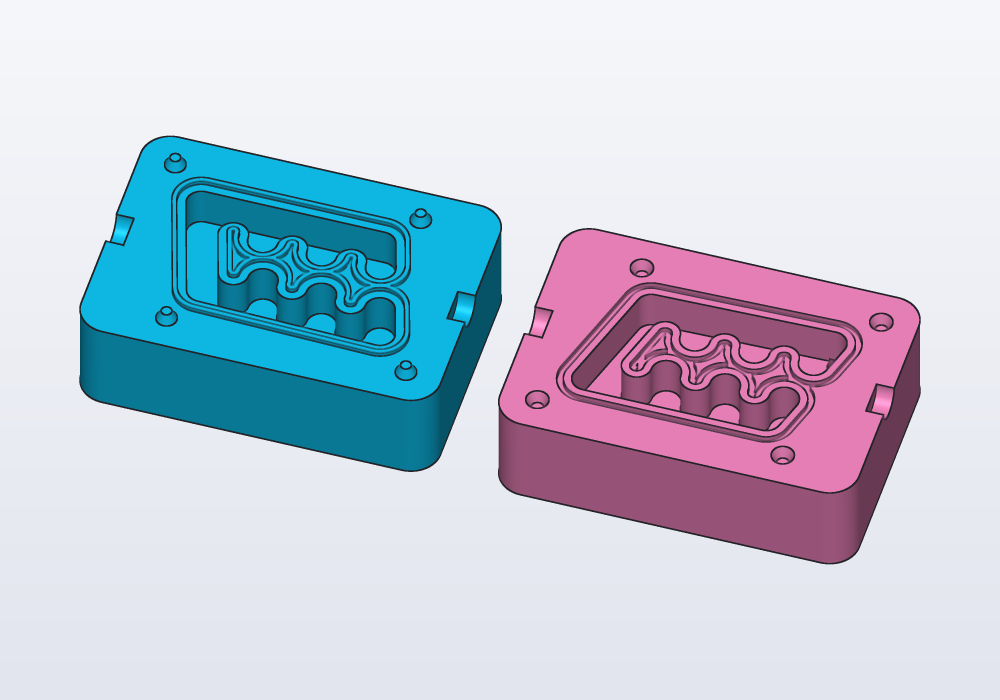
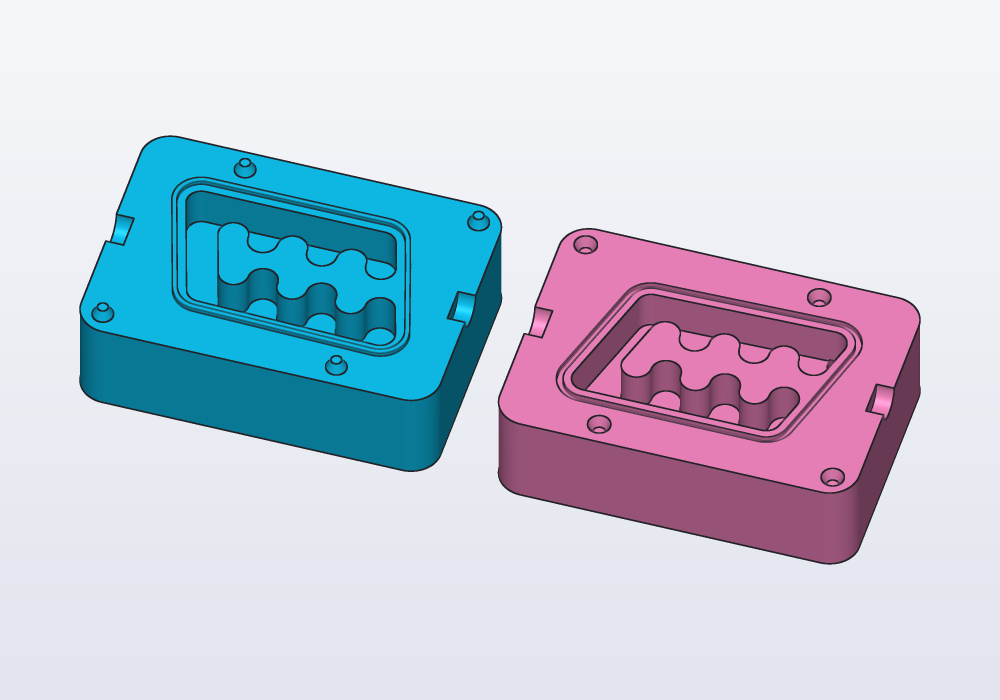
Molds square to a slanted parting plane, sized by the part's own reach along its axes; the seal runs round the cavity's convex hull, the keys outside it

diff --git a/docs/cheatsheet.html b/docs/cheatsheet.html
@@ -459,7 +459,7 @@ dd { margin: 0 0 0 12px; color: #4a5a54; }
 </dl></section>
 <section><h2>import molds;</h2><dl>
 <dt>struct Mold(a: Solid, b: Solid, aPrint: Solid, bPrint: Solid)</dt><dd>The two halves of a mold, where they go and laid for printing.</dd>
-<dt>mold(object: Solid, at: Plane, wall: Length = …, keys: int = 4, sprue: Length = …, vents: int = 2, seal: Length = …, clearance: Length = …, pry: bool = true) → Mold</dt><dd>A two-part mold to cast `object` in (silicone, resin, plaster): a block `wall` thick round it, cut along the parting plane `at`, the object's shape hollow inside. The plane should cross the object where it is widest, so each half lets go of the cast.  - `keys` cones on a's parting face and their sockets in b's line the halves up (where the face has room, as far apart as they can be), `clearance` apart; - a seal round the cavity, a ridge `seal` high on a and its groove in b, keeps the liquid from creeping out between the halves (0.mm: none); - a pour hole `sprue` wide with a funnel, and `vents` thin channels for the air, go up through b from the cavity's highest points (along the plane's normal: put that side up when pouring).  - `pry`: a notch on two opposite sides, across the parting line, to open the mold with a flat screwdriver without marring its faces.  Both halves print with the parting face up, on their outer faces (`aPrint`, `bPrint`): the keys and the seal stand up, the sockets and the groove open upwards, with no supports.</dd>
+<dt>mold(object: Solid, at: Plane, wall: Length = …, keys: int = 4, sprue: Length = …, vents: int = 2, seal: Length = …, clearance: Length = …, pry: bool = true) → Mold</dt><dd>A two-part mold to cast `object` in (silicone, resin, plaster): a block `wall` thick round it, cut along the parting plane `at`, the object's shape hollow inside. The plane should cross the object where it is widest, so each half lets go of the cast.  - `keys` cones on a's parting face and their sockets in b's line the halves up (where the face has room, as far apart as they can be), `clearance` apart; - a seal round the cavity (its convex hull), a ridge `seal` high on a and its groove in b, keeps the liquid from creeping out between the halves (0.mm: none); - a pour hole `sprue` wide with a funnel, and `vents` thin channels for the air, go up through b from the cavity's highest points (along the plane's normal: put that side up when pouring).  - `pry`: a notch on two opposite sides, across the parting line, to open the mold with a flat screwdriver without marring its faces.  Both halves print with the parting face up, on their outer faces (`aPrint`, `bPrint`): the keys and the seal stand up, the sockets and the groove open upwards, with no supports.</dd>
 </dl></section>
 <section><h2>Keys and mouse (on macOS, Cmd for Ctrl)</h2><dl>
 <dt>Right drag, or Shift + left drag</dt><dd>turns the view</dd>

diff --git a/docs/CHEATSHEET.md b/docs/CHEATSHEET.md
@@ -454,7 +454,7 @@ s is a Solid, p a Profile, f a Frame; every value is immutable: operations give 
 ## Library: import molds;
 
 - `struct Mold(a: Solid, b: Solid, aPrint: Solid, bPrint: Solid)` — The two halves of a mold, where they go and laid for printing.
-- `mold(object: Solid, at: Plane, wall: Length = …, keys: int = 4, sprue: Length = …, vents: int = 2, seal: Length = …, clearance: Length = …, pry: bool = true) → Mold` — A two-part mold to cast `object` in (silicone, resin, plaster): a block `wall` thick round it, cut along the parting plane `at`, the object's shape hollow inside. The plane should cross the object where it is widest, so each half lets go of the cast.  - `keys` cones on a's parting face and their sockets in b's line the halves up (where the face has room, as far apart as they can be), `clearance` apart; - a seal round the cavity, a ridge `seal` high on a and its groove in b, keeps the liquid from creeping out between the halves (0.mm: none); - a pour hole `sprue` wide with a funnel, and `vents` thin channels for the air, go up through b from the cavity's highest points (along the plane's normal: put that side up when pouring).  - `pry`: a notch on two opposite sides, across the parting line, to open the mold with a flat screwdriver without marring its faces.  Both halves print with the parting face up, on their outer faces (`aPrint`, `bPrint`): the keys and the seal stand up, the sockets and the groove open upwards, with no supports.
+- `mold(object: Solid, at: Plane, wall: Length = …, keys: int = 4, sprue: Length = …, vents: int = 2, seal: Length = …, clearance: Length = …, pry: bool = true) → Mold` — A two-part mold to cast `object` in (silicone, resin, plaster): a block `wall` thick round it, cut along the parting plane `at`, the object's shape hollow inside. The plane should cross the object where it is widest, so each half lets go of the cast.  - `keys` cones on a's parting face and their sockets in b's line the halves up (where the face has room, as far apart as they can be), `clearance` apart; - a seal round the cavity (its convex hull), a ridge `seal` high on a and its groove in b, keeps the liquid from creeping out between the halves (0.mm: none); - a pour hole `sprue` wide with a funnel, and `vents` thin channels for the air, go up through b from the cavity's highest points (along the plane's normal: put that side up when pouring).  - `pry`: a notch on two opposite sides, across the parting line, to open the mold with a flat screwdriver without marring its faces.  Both halves print with the parting face up, on their outer faces (`aPrint`, `bPrint`): the keys and the seal stand up, the sockets and the groove open upwards, with no supports.
 
 ## How do I…
 

diff --git a/docs/guides/molds.md b/docs/guides/molds.md
@@ -49,12 +49,12 @@ Solid upper() => carloMold().b;
 
 ## The mold
 
-`mold(part, plane)` gives a `Mold`: the halves where they go (`.a` behind the plane, `.b` in front of it) and laid for printing (`.aPrint`, `.bPrint`). The block is `wall` thick round the part (10 mm unless given) and rounded at its upright edges.
+`mold(part, plane)` gives a `Mold`: the halves where they go (`.a` behind the plane, `.b` in front of it) and laid for printing (`.aPrint`, `.bPrint`). The block is `wall` thick round the part (10 mm unless given), square to the parting plane even when that is slanted, and rounded at its edges across it.
 
 The **parting plane** decides whether the cast comes out: it must cross the part where it is widest, so that nothing of the part hides behind something else seen from either side. A part lying flat (Carlo) parts at half its height; an egg or a figure parts through its middle, along its length.
 
 - **Keys** line the halves up: truncated cones on `a`'s parting face, their sockets in `b`'s, `clearance` larger (0.15 mm unless given), as many as `keys:` (4 unless given), placed where the face has room, as far apart as they can be.
-- **The seal** keeps the liquid from creeping out between the halves: a ridge round the cavity on `a`, `seal` high (0.8 mm unless given), pressing into a groove in `b`. `seal: 0.mm` leaves it out.
+- **The seal** keeps the liquid from creeping out between the halves: a ridge round the cavity (round its convex hull, so it stays one smooth loop past notches) on `a`, `seal` high (0.8 mm unless given), pressing into a groove in `b`. `seal: 0.mm` leaves it out.
 - **Notches** across the parting line on two opposite sides take a flat screwdriver to open the mold without marring its faces; `pry: false` leaves them out.
 - **The pour hole** goes up through `b` from just under the cavity's top, along the plane's normal, `sprue` wide (6 mm unless given) and opening into a funnel at the block's face; `vents:` thinner channels (2 unless given) let the air out from other high points. Pour with `b` on top.
 

diff --git a/docs/AGENTS.md b/docs/AGENTS.md
@@ -12,12 +12,12 @@ reference first and follow the rules below.
 
 ## Setup and updates
 
-This text was made by hcad 0.3.1 (docs stamp `0.3.1-b73ff386`). Before the first
+This text was made by hcad 0.3.1 (docs stamp `0.3.1-3aa25c84`). Before the first
 model of a session, run `hcad docs --stamp` (`hcad` may be a full path, or the
 AppImage followed by the word `hcad`; with the MCP server, hcad_docs with
 format stamp):
 
-- **It prints `0.3.1-b73ff386`:** this text is up to date.
+- **It prints `0.3.1-3aa25c84`:** this text is up to date.
 - **It prints something else:** hackerscad was updated and this text is
   older or newer than it. Installed as a skill, refresh it in place:
   `hcad docs --skill` into this SKILL.md, `hcad docs` into the llms-full.txt

diff --git a/docs/SKILL.md b/docs/SKILL.md
@@ -17,12 +17,12 @@ reference first and follow the rules below.
 
 ## Setup and updates
 
-This text was made by hcad 0.3.1 (docs stamp `0.3.1-b73ff386`). Before the first
+This text was made by hcad 0.3.1 (docs stamp `0.3.1-3aa25c84`). Before the first
 model of a session, run `hcad docs --stamp` (`hcad` may be a full path, or the
 AppImage followed by the word `hcad`; with the MCP server, hcad_docs with
 format stamp):
 
-- **It prints `0.3.1-b73ff386`:** this text is up to date.
+- **It prints `0.3.1-3aa25c84`:** this text is up to date.
 - **It prints something else:** hackerscad was updated and this text is
   older or newer than it. Installed as a skill, refresh it in place:
   `hcad docs --skill` into this SKILL.md, `hcad docs` into the llms-full.txt
